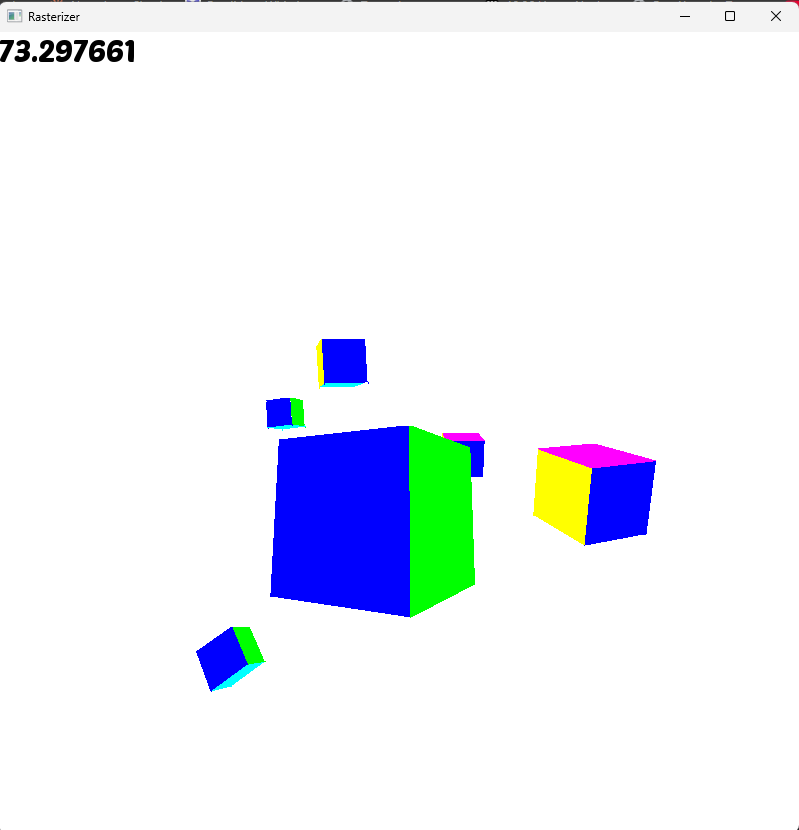
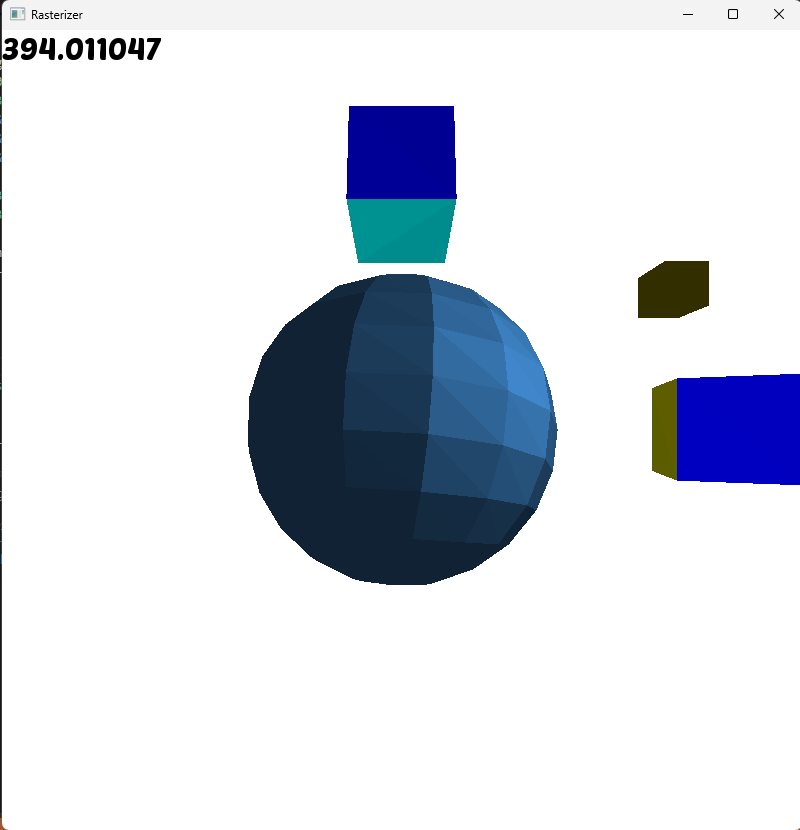
added basic lighting and a sphere

diff --git a/src/rasterizer/main.cpp b/src/rasterizer/main.cpp
@@ -39,6 +39,11 @@ sf::Vector3f getCrossProduct(sf::Vector3f v1, sf::Vector3f v2){
     return sf::Vector3f(v1.y*v2.z - v2.y*v1.z,-(v1.x*v2.z - v1.z*v2.x),v1.x*v2.y - v2.x*v1.y);
 }
 
+sf::Color operator*(const sf::Color& color, const float intensity){
+    auto scale = [intensity](std::uint8_t channel){return static_cast<std::uint8_t>(std::clamp(channel*intensity,0.0f,225.0f));};
+    return sf::Color(scale(color.r),scale(color.g),scale(color.b));
+}
+
 sf::Vector3f operator*(const Matrix& mat, const sf::Vector3f& vec) {
     Vector4f v (vec.x,vec.y,vec.z,1);
     Vector4f result;
@@ -169,6 +174,65 @@ struct Model{
     std::vector<Triangle> triangles;
 };
 
+// Builds a UV sphere centred at the origin.  The latitude and longitude values
+// control the number of horizontal rings and vertical slices respectively.
+Model createSphereModel(float radius, int latitudeSegments, int longitudeSegments,
+                        sf::Color color) {
+    latitudeSegments = std::max(latitudeSegments, 2);
+    longitudeSegments = std::max(longitudeSegments, 3);
+
+    Model sphere;
+    sphere.vertices.reserve(2 + (latitudeSegments - 1) * longitudeSegments);
+    sphere.triangles.reserve(2 * longitudeSegments * (latitudeSegments - 1));
+
+    const float twoPi = 2.0f * pi;
+    sphere.vertices.push_back({0.0f, radius, 0.0f});       // north pole
+
+    for (int latitude = 1; latitude < latitudeSegments; ++latitude) {
+        const float phi = pi * static_cast<float>(latitude) / latitudeSegments;
+        const float ringRadius = radius * std::sin(phi);
+        const float y = radius * std::cos(phi);
+
+        for (int longitude = 0; longitude < longitudeSegments; ++longitude) {
+            const float theta = twoPi * static_cast<float>(longitude) / longitudeSegments;
+            sphere.vertices.push_back({ringRadius * std::cos(theta), y,
+                                       ringRadius * std::sin(theta)});
+        }
+    }
+
+    const int southPole = static_cast<int>(sphere.vertices.size());
+    sphere.vertices.push_back({0.0f, -radius, 0.0f});      // south pole
+
+    // Top cap.
+    for (int longitude = 0; longitude < longitudeSegments; ++longitude) {
+        const int next = (longitude + 1) % longitudeSegments;
+        sphere.triangles.push_back({{0, 1 + next, 1 + longitude}, color});
+    }
+
+    // Join neighbouring rings.  The winding faces outwards for back-face culling.
+    for (int latitude = 0; latitude < latitudeSegments - 2; ++latitude) {
+        const int upperRing = 1 + latitude * longitudeSegments;
+        const int lowerRing = upperRing + longitudeSegments;
+        for (int longitude = 0; longitude < longitudeSegments; ++longitude) {
+            const int next = (longitude + 1) % longitudeSegments;
+            sphere.triangles.push_back({{upperRing + longitude, upperRing + next,
+                                        lowerRing + next}, color});
+            sphere.triangles.push_back({{upperRing + longitude, lowerRing + next,
+                                        lowerRing + longitude}, color});
+        }
+    }
+
+    // Bottom cap.
+    const int lastRing = southPole - longitudeSegments;
+    for (int longitude = 0; longitude < longitudeSegments; ++longitude) {
+        const int next = (longitude + 1) % longitudeSegments;
+        sphere.triangles.push_back({{southPole, lastRing + longitude,
+                                    lastRing + next}, color});
+    }
+
+    return sphere;
+}
+
 struct Instance{
     Model* model_ptr;
     sf::Vector3f translation;
@@ -195,6 +259,65 @@ struct Instance{
     }
 
 };
+
+float magnitude(sf::Vector3f v){
+    return sqrt(getDotProduct(v,v));
+}
+
+sf::Vector3f normalize(sf::Vector3f v){
+    float mag = magnitude(v);
+    if(!(mag == 0)){
+        return (1/mag) * v;
+    }
+    return sf::Vector3f(-1,-1,-1);
+}
+
+sf::Vector3f reflect(sf::Vector3f v, sf::Vector3f n){
+    return 2.f*normalize(n)*getDotProduct(normalize(n),v) - v;
+}
+
+enum LightType{
+    Ambient,
+    Point,
+    Directional
+};
+
+struct Light{
+    LightType type = Ambient;
+    float intensity = 0;
+    sf::Vector3f dirOrPos = sf::Vector3f(0,0,0);
+
+    Light(LightType Atype,float Aintensity,sf::Vector3f AdirOrPos = sf::Vector3f(0,0,0)):type(Atype),intensity(Aintensity),dirOrPos(AdirOrPos){}
+
+    Light() = default;
+};
+
+void computeLighting(TempTriangle& triangle,std::vector<Light>& lights,Matrix& camera_transform, Matrix& camera_rotation){
+    float i = 0;
+    sf::Vector3f L;
+    const auto& a = triangle.first[0];
+    const auto& b = triangle.first[1];
+    const auto& c = triangle.first[2];
+
+    sf::Vector3f normal = normalize(getCrossProduct(b - a, c - a));
+    sf::Vector3f centre = (a + b + c) / 3.f;
+    for (auto& light: lights){
+        if(light.type == LightType::Ambient){
+            i += light.intensity;
+        }
+        else{
+            if (light.type == LightType::Point){
+                L = normalize(camera_transform * light.dirOrPos - centre);
+            }
+            else if (light.type == LightType::Directional){
+                L = normalize(camera_rotation * light.dirOrPos);
+            }
+            i += light.intensity * std::max(0.0f,getDotProduct(normal,L));
+        }
+    }
+
+    triangle.second = triangle.second*i;
+}
 
 sf::Vector3f canvasToViewPort(int x,int y){
     float Vx = x * (VIEWPORT_W/WIDTH);
@@ -384,6 +507,7 @@ Range drawTriangle(sf::VertexArray& scene,DEPTH_BUFFER& depth_buffer,TempTriangl
 
     // in some cases like l0.y = 10.2 and l2.y = 10.8 y_start and y_end will end up to be 11 and 10 because of 
     // std::ceil and std::floor so we do not draw them.
+
     if (y_end < y_start) {
         return {i_start, i_start - 1};
     }
@@ -403,7 +527,7 @@ Range drawTriangle(sf::VertexArray& scene,DEPTH_BUFFER& depth_buffer,TempTriangl
 
     // setting up the x and z values for both ends of the line hence the start and end prefixes
     float x_start, x_end, z_start, z_end;
-    for(int y = y_start; y < y_end; y++){
+    for(int y = y_start; y <= y_end; y++){
 
         // we take fy to not get any wierd behaviour in case of int and float operations
         float fy = (float)(y);
@@ -438,8 +562,6 @@ Range drawTriangle(sf::VertexArray& scene,DEPTH_BUFFER& depth_buffer,TempTriangl
         // again using std::ceil and std::floor to take out any weird shooting lines from the edges
         int pixel_x_start = std::ceil(x_left);
         int pixel_x_end   = std::floor(x_right);
-        // int pixel_x_start = x_left;
-        // int pixel_x_end = x_right;
 
         // finding the slope of z from x_left to x_right
         float d_zi = (x_right - x_left != 0.0f) ? (z_right - z_left) / (x_right - x_left) : 0.0f;
@@ -447,6 +569,7 @@ Range drawTriangle(sf::VertexArray& scene,DEPTH_BUFFER& depth_buffer,TempTriangl
         // finding z reciprocal for the first step.
         const int half_w = WIDTH / 2;
 
+        // clamping the x values to screen dimensions
         pixel_x_start = std::max(pixel_x_start, -half_w);
         pixel_x_end   = std::min(pixel_x_end, half_w - 1);
 
@@ -564,8 +687,8 @@ int clipTriangle(TempTriangle& triangle, std::pair<sf::Vector3f,float> plane, Te
 
             TempTriangle temp_triangle2;
             temp_triangle2.first[0] = all_points[0];
-            temp_triangle2.first[1] = all_points[3];
-            temp_triangle2.first[2] = all_points[2];
+            temp_triangle2.first[1] = all_points[2];
+            temp_triangle2.first[2] = all_points[3];
             temp_triangle2.second = triangle.second;
             out[1] = temp_triangle2;
 
@@ -663,11 +786,33 @@ int main(){
         {{0, 1, 2}, sf::Color::Red}
     }};
 
+    // A visual marker only; it does not participate in the lighting calculation.
+    const sf::Color lightMarkerColor(255, 230, 0);
+    Model pointLightMarker{cube.vertices, {
+        {{0, 1, 2}, lightMarkerColor}, {{0, 2, 3}, lightMarkerColor},
+        {{4, 0, 3}, lightMarkerColor}, {{4, 3, 7}, lightMarkerColor},
+        {{5, 7, 6}, lightMarkerColor}, {{5, 4, 7}, lightMarkerColor},
+        {{1, 6, 2}, lightMarkerColor}, {{1, 5, 6}, lightMarkerColor},
+        {{1, 4, 5}, lightMarkerColor}, {{1, 0, 4}, lightMarkerColor},
+        {{2, 7, 3}, lightMarkerColor}, {{2, 6, 7}, lightMarkerColor}
+    }};
+
+    // Explicit low-poly sphere, kept alongside createSphereModel() for comparison.
+    const sf::Color sphereBaseColor(80, 170, 255);
+    Model sphere = createSphereModel(1.0f, 12, 16, sf::Color(80, 170, 255));
+    sf::Vector3f pointLightPosition(5.0f, 0.0f, -4.0f);
+    std::vector<Light> lights;
+    lights.emplace_back(Point,0.6,pointLightPosition);
+    lights.emplace_back(Ambient,0.2);
+    lights.emplace_back(Directional,0.4,sf::Vector3f(1,4,4));
+
     std::vector<std::array<Range,3>> wireframe_ranges;
     std::vector<Range> ranges;
     std::vector<Instance> instances;
+    instances.push_back(Instance{&pointLightMarker, pointLightPosition,
+                                 {0.0f, 0.0f, 0.0f}, 0.12f});
     instances.push_back(Instance{&cube, {-3.0f,  2.5f, 15.0f}, {20.0f, 30.0f, 10.0f}, 0.9f});
-    instances.push_back(Instance{&cube, { 0.0f,  0.0f,  1.0f}, {15.0f, 15.0f,  0.0f}, 1.5f});
+    instances.push_back(Instance{&sphere, { 0.0f,  0.0f,  4.0f}, {15.0f, 15.0f,  0.0f}, 1.5f});
     instances.push_back(Instance{&cube, { 4.0f,  3.0f, -5.0f}, { 0.0f,  0.0f,  0.0f}, 1.0f});
     instances.push_back(Instance{&cube, { 0.0f,  0.0f,  2.0f}, {30.0f, 45.0f, 15.0f}, 3.0f});
     instances.push_back(Instance{&cube, { 8.0f,  0.0f, 10.0f}, { 0.0f, 20.0f,  0.0f}, 1.2f});
@@ -707,13 +852,24 @@ int main(){
         if (sf::Keyboard::isKeyPressed(sf::Keyboard::Key::G))     camera_orientation[1] += 10 * dt;
         if (sf::Keyboard::isKeyPressed(sf::Keyboard::Key::H))     camera_orientation[2] += 10 * dt;
 
+        if (sf::Keyboard::isKeyPressed(sf::Keyboard::Key::L)) pointLightPosition.x += 5 * dt;
+        if (sf::Keyboard::isKeyPressed(sf::Keyboard::Key::J))  pointLightPosition.x -= 5 * dt;
+        if (sf::Keyboard::isKeyPressed(sf::Keyboard::Key::I))    pointLightPosition.y += 5 * dt;
+        if (sf::Keyboard::isKeyPressed(sf::Keyboard::Key::K))  pointLightPosition.y -= 5 * dt;
+        if (sf::Keyboard::isKeyPressed(sf::Keyboard::Key::O))     pointLightPosition.z += 5 * dt;
+        if (sf::Keyboard::isKeyPressed(sf::Keyboard::Key::P))     pointLightPosition.z -= 5 * dt;
+
+        instances[0].translation = pointLightPosition;
+        lights[0].dirOrPos = pointLightPosition;
+
         for(auto& col:depth_buffer){
             for(auto& z: col){
                 z = 0;
             }
         }
-
-        Matrix camera_transform = transposeMatrix(getRotationMatrix(camera_orientation)) * getInverseTranslationMatrix(camera_pos);
+        Matrix camera_translation = getInverseTranslationMatrix(camera_pos);
+        Matrix camera_rotation = transposeMatrix(getRotationMatrix(camera_orientation));
+        Matrix camera_transform = camera_rotation * camera_translation;
         int outside_count = 0;
         for (auto& instance: instances){
             Matrix final_transform = camera_transform * getTranslationMatrix(instance.translation)*getRotationMatrix(instance.angles)*getScalingMatrix(instance.scale);
@@ -757,6 +913,7 @@ int main(){
                 // }
 
                 for (auto& triangle: triangle_buff1){
+                    computeLighting(triangle,lights,camera_transform,camera_rotation);
                     ranges.push_back(drawTriangle(scene,depth_buffer,triangle,1,1,1,viewport_pos.z));
                 }
 
@@ -779,6 +936,7 @@ int main(){
                 // }
 
                 for (auto& triangle: triangle_buff1){
+                    computeLighting(triangle,lights,camera_transform,camera_rotation);
                     ranges.push_back(drawTriangle(scene,depth_buffer,triangle,1,1,1,viewport_pos.z));
                 }
             }
